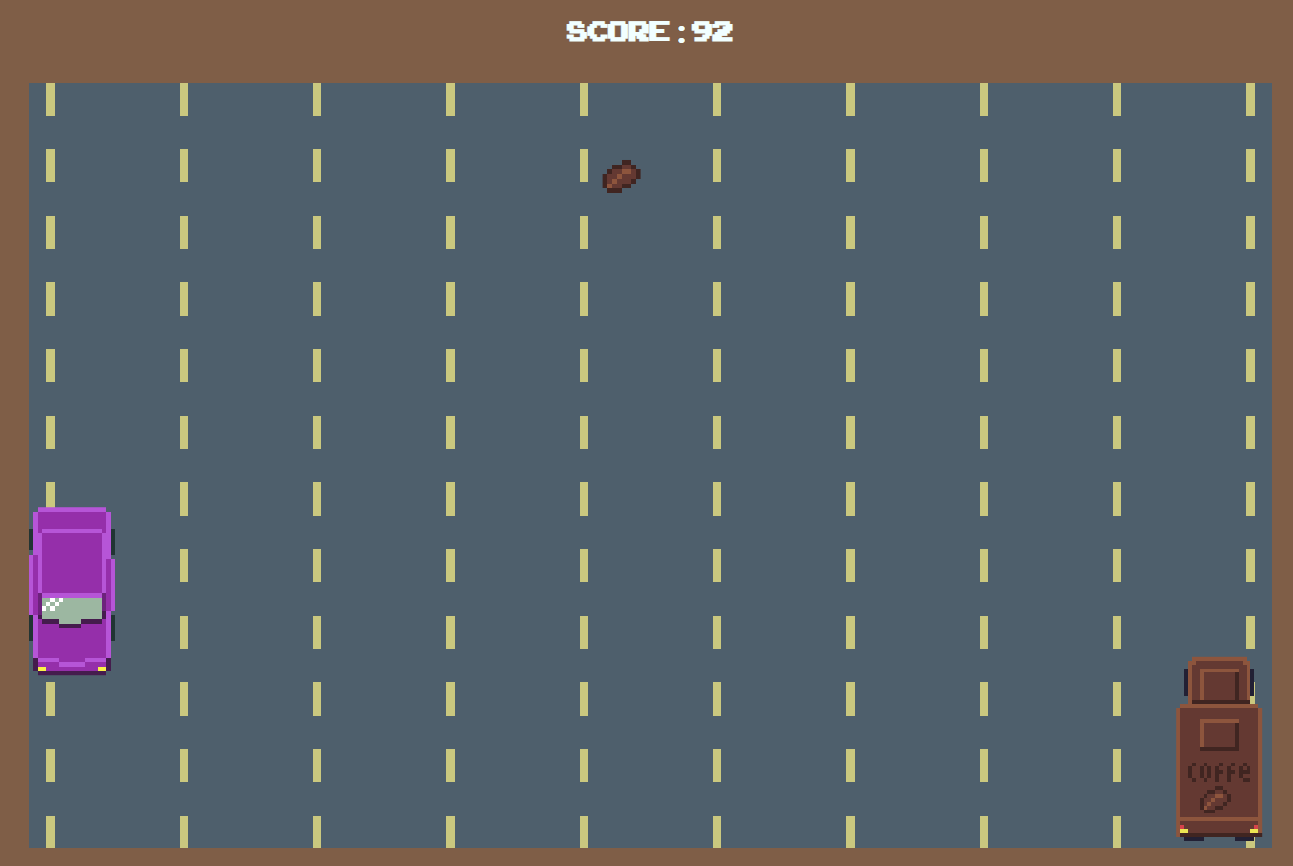
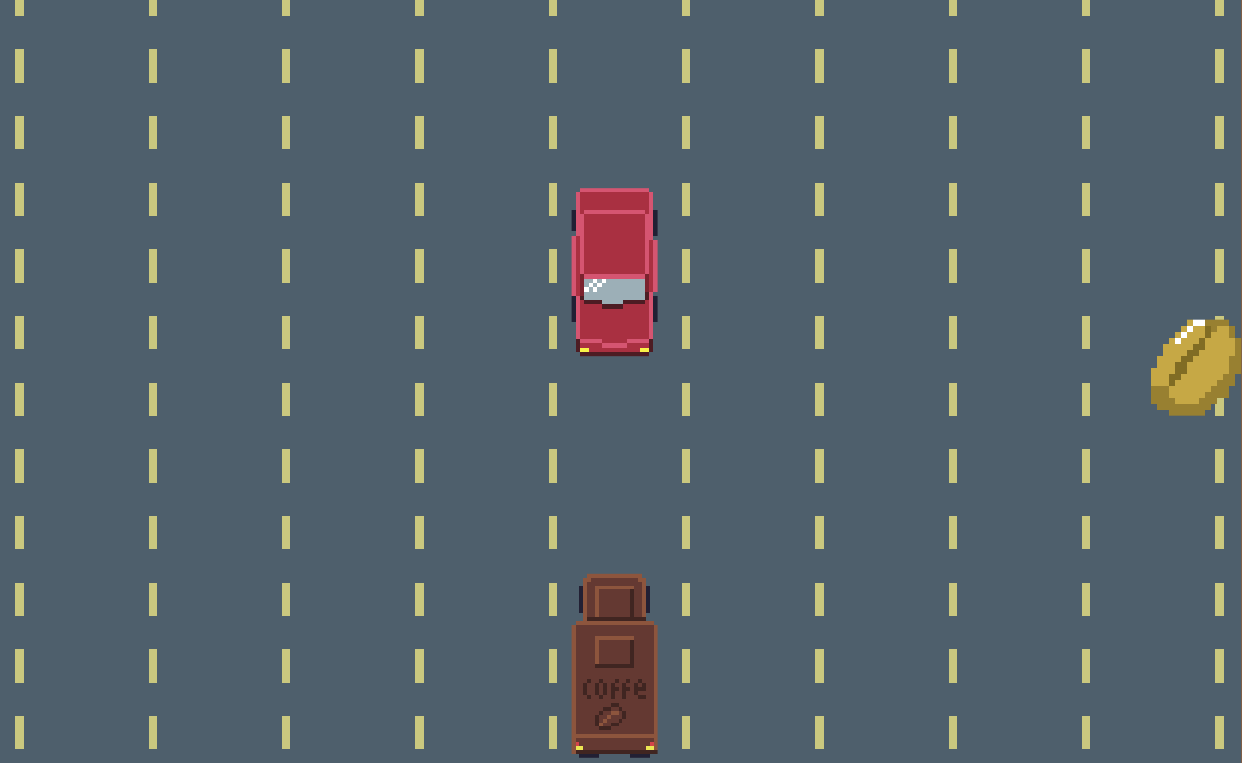
fin de journée

diff --git a/CoffeverGame/index.html b/CoffeverGame/index.html
@@ -22,9 +22,8 @@
         <section class="Title">
             <h1>Coffever - Le jeu</h1>
         </section>
-            
-            
-            <article class="Chapter">
+        <section class="ChapterContainer">
+                        <article class="Chapter">
                 <div>
                     <h2>Coffever Mad Race 2000 RTX + DLSS : A new hope for the bean</h2>
                     <p>
@@ -36,7 +35,7 @@
                 </div>
                 <img src="../img/CoffeverMadChaseThumbnail.png" alt="variété de café">
             </article>
-
+        </section>
     </main>
     <footer>
             <a href="../index.html">Accueil</a>
